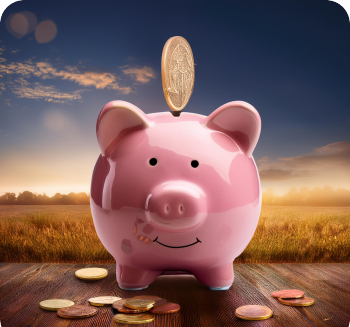
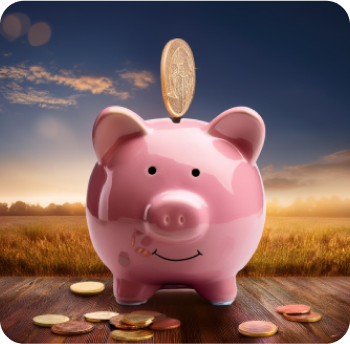
fixed qr-code

diff --git a/src/language/languages.ts b/src/language/languages.ts
@@ -43,6 +43,8 @@ export const languages: any = {
     main_page_text_raise_cash:
       "Мета: зібрати шкільне приладдя та кошти на його закупівлю, аби подарувати дітям з малозабезпечених, багатодітних та кризових сімей наповнені шкільні портфелики до 1 вересня.",
     main_page_button_raise_cash: "ПІДТРИМАТИ",
+    iPhone: "/_next/static/media/iPhone.b049dd5d.png",
+    pig: "/_next/static/media/donate-img-mobile.1c28f368.png",
     //_____________________
 
     //volunteers
@@ -148,6 +150,8 @@ export const languages: any = {
     main_page_text_raise_cash:
       "Purpose: to collect school supplies and funds for its purchase in order to give children from low-income, large and crisis families filled with school bags by September 1.",
     main_page_button_raise_cash: "Donate",
+    iPhone: "/_next/static/media/eng-iPhone.25a421f2.png",
+    pig: "/_next/static/media/donate-img-mobile.1c28f368.png",
     //_____________________
 
     //volunteers

diff --git a/src/components/HelpRaiseCash/HelpRaiseCash.tsx b/src/components/HelpRaiseCash/HelpRaiseCash.tsx
@@ -2,7 +2,6 @@ import Image from "next/image";
 import style from "./HelpRaiseCash.module.scss";
 
 import { languages } from "@/language/languages";
-import iPhone from "@/assets/qr_code/iPhone.png";
 import pig from "@/assets/donate-buttons-img/donate-img-mobile.png";
 import { useAppSelector } from "@/hooks/hooks";
 import ButtonsDefault from "@/components/Buttons/ButtonsDefault/ButtonsDefault";
@@ -17,7 +16,15 @@ export default function HelpRaiseCash() {
   return (
     <section className={style.wrapper}>
       <div className={style.container}>
-        <Image src={!isMobile ? iPhone : pig} alt="" className={style.image} />
+        <img
+          src={
+            !isMobile
+              ? languages[languageSelected].iPhone
+              : languages[languageSelected].pig
+          }
+          alt=""
+          className={style.image}
+        />
 
         <div className={style.info}>
           <h2>{languages[languageSelected].main_page_title_raise_cash}</h2>

diff --git a/src/components/HelpRaiseCash/HelpRaiseCash.module.scss b/src/components/HelpRaiseCash/HelpRaiseCash.module.scss
@@ -61,6 +61,8 @@
                 width: 350px;
                 height: 343px;
                 margin-bottom: 20px;
+                border-radius: 24px;
+                overflow: hidden;
             }
 
             .info{
